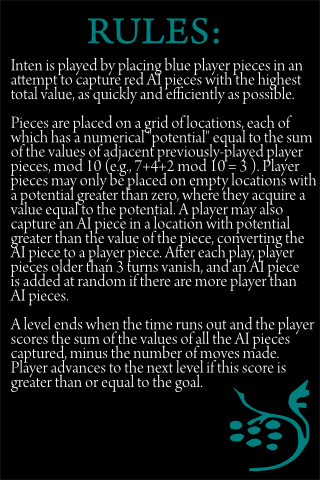
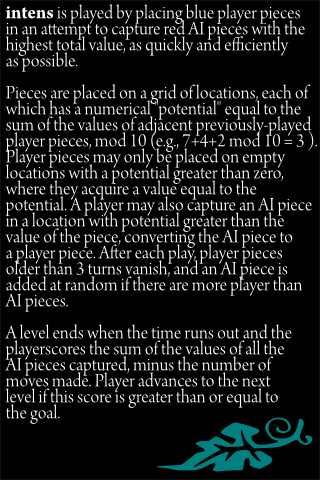
- added sound effects - minor artwork changes

diff --git a/numms_a/Board.mm b/numms_a/Board.mm
@@ -20,7 +20,9 @@
 {
 
 	if( (self=[super  init])) {
-        //[[SimpleAudioEngine sharedEngine] preloadEffect:@"wine.aif"];
+        
+        effects = [[SoundEffectManager alloc] initEffects];
+        
         // cache piece textures
         [[CCTextureCache sharedTextureCache] addImage:@"p_6a.png"];
         [[CCTextureCache sharedTextureCache] addImage:@"p_6b.png"];
@@ -32,6 +34,7 @@
 // ----------------------------------------------------
 -(void) dealloc {
     [super dealloc];
+    [effects release];
     [[CCTextureCache sharedTextureCache] removeUnusedTextures];
 } // end dealloc
 
@@ -87,6 +90,7 @@
 
 // ----------------------------------------------------
 -(void) displayBoard{
+    
     for (int i = 0; i < GWIDTH; i++) {
         for (int j = 0; j < GHEIGHT-1; j++) {
             
@@ -95,6 +99,8 @@
                 // ----------------------------------------------------
                 case CAPTURED:
                      [(Piece*)[self getChildByTag:i*10+j] capture];
+                          [effects playCapture];
+                    
                     break;
                 // born
                 // ----------------------------------------------------
@@ -119,37 +125,6 @@
             
             dMatrix.drawP(i, j);
             
-            
-         /*   
-            
-            if (!(dMatrix.drawn(i, j) =) {
-                dMatrix.drawP(i, j);
-               
-                // there are 3 possible situations when something
-                // needs to be draw
-                
-                // capturing
-                if ([self getChildByTag:i*10+j] != NULL &&         // there is currently a piece drawn here
-                    dMatrix.type(i, j) != EMPTY                    // AND there is a piece here in the matrix
-                     ) {
-
-                   // [self addChild: [self pieceFromData:CGPointMake(i, j)]];
-                    [(Piece*)[self getChildByTag:i*10+j] capture];  // capture the old piece
-                    
-                // dying
-                } else if([self getChildByTag:i*10+j] != NULL &&    // there is currently a piece drawn here
-                          dMatrix.type(i, j) == EMPTY               // AND there is NOT a piece here in the matrix
-                          ) {
-                    [(Piece*)[self getChildByTag:i*10+j] death];    // old piece dies
-                    
-                // playing
-                } else if (dMatrix.type(i, j) != EMPTY  &&          // this cell is not empty in matrix
-                           [self getChildByTag:i*10+j] == NULL      // AND nothing is draw here
-                           ) {
-                    [self addChild: [self pieceFromData:CGPointMake(i, j)]];  // simply place piece
-                }   
-            
-            } // end if*/
         } // end for
     } // end for   
 } // end drawBoard

diff --git a/numms_a/SoundEffectManager.m b/numms_a/SoundEffectManager.m
@@ -1,0 +1,52 @@
+// Copyright (c) 2011 Ethan Levien
+// SoundEffectManager.mm
+
+#import "SoundEffectManager.h"
+
+
+@implementation SoundEffectManager
+
+#pragma mark - 
+#pragma mark setup
+
+// setup
+// ====================================================
+
++(id) soundEffectManager{    
+    return [[[self alloc] initEffects] autorelease];
+} // end soundEffectManager
+
+// ---------------------------------------------------
+-(id) initEffects{
+    if( (self=[super init]) ) {
+        
+        
+        NSString *toneFilename = [NSString stringWithString:@"wine"];
+        
+        NSURL *toneURLRef = [[NSBundle mainBundle] URLForResource:toneFilename
+                                                    withExtension:@"aif"];
+        
+        
+        AudioServicesCreateSystemSoundID(
+                                         (CFURLRef) toneURLRef,
+                                         &capture_tone
+                                         );
+
+    }
+    return self;
+    
+} // end init
+
+#pragma mark - 
+#pragma mark sounds
+
+// sounds
+// ====================================================
+
+// ---------------------------------------------------
+-(void) playCapture{
+    AudioServicesPlaySystemSound(capture_tone);
+} // playCapture
+
+
+@end

diff --git a/numms_a/SoundEffectManager.h b/numms_a/SoundEffectManager.h
@@ -1,0 +1,30 @@
+// Copyright (c) 2011 Ethan Levien
+// SoundEffectManager.h
+
+#import <Foundation/Foundation.h>
+#import <AudioToolbox/AudioToolbox.h>
+
+/*--------------------------------------------------------------
+ Programmer: ethan levien
+ 
+ SUMMARY:
+ 
+ REVISIONS: 
+ 06/08/2011 (eal) - wrote and implemented class w/ only capture effect
+ ----------------------------------------------------------------*/
+
+
+@interface SoundEffectManager : NSObject {
+        SystemSoundID capture_tone;
+}
+
+// setup
+// ====================================================
++(id) soundEffectManager;
+-(id) initEffects;
+
+// sounds
+// ====================================================
+-(void) playCapture;
+
+@end

diff --git a/numms_a/Board.h b/numms_a/Board.h
@@ -3,7 +3,7 @@
 // Board.h
 
 #import <Foundation/Foundation.h>
-#import "SimpleAudioEngine.h"
+#import "SoundEffectManager.h"
 #import "cocos2d.h"
 #import "DataMatrix.h"
 #import "Piece.h"
@@ -20,12 +20,14 @@
  06/07/2011 (eal) - code is clean( organized and commented)
  06/08/2011 (eal) - altered display board method to enable specific animations
                     to be called when piece is captured, born, or dies
+                  - added sound
  ----------------------------------------------------------------*/
 
 
 @interface Board : CCNode {
 	
     DataMatrix dMatrix;
+    SoundEffectManager *effects;
     
 }
 

diff --git a/numms_a/Piece.mm b/numms_a/Piece.mm
@@ -16,23 +16,14 @@
 // ---------------------------------------------------
 -(id) init
 {
-	
-	// always call "super" init
-	// Apple recommends to re-assign "self" with the "super" return value
 	if( (self=[super  init])) {
 
         self.anchorPoint = CGPointMake(0,0);
-		// create and initialize a Label
-        
-		
-		
-   
 		
         label = [CCLabelTTF labelWithString:@"1" fontName:PIECE_FONT fontSize:50];
         label.anchorPoint = CGPointMake(0,0);
         label.position = CGPointMake(25,8);
         label.opacity = 225;
-
         	
 	}
 	return self;

diff --git a/numms_a/GameScene.mm b/numms_a/GameScene.mm
@@ -31,6 +31,12 @@
 	
 
 	if( (self=[super  init])) {
+        
+        // add background sprite
+        CCSprite* backsprite = [CCSprite spriteWithFile:@"bg_grid4.png"];
+		[self addChild:backsprite];
+		backsprite.anchorPoint = ccp(0,0);
+		backsprite.position = ccp(0,0);
 
                 
         [self buttonSetup];
@@ -45,8 +51,6 @@
         
         bonus = 0;
         [self playLevel];
-
-        
 
 
 	}

diff --git a/numms_a/Consts.h b/numms_a/Consts.h
@@ -28,9 +28,9 @@
 
 // gameplay
 #define LIFESPAN               3
-#define MAX_LVL                30
-#define LVL_TIME               600
-#define LVL_SPEED              0.1f
+#define MAX_LVL                300
+#define LVL_TIME               60
+#define LVL_SPEED              1.0f
 
 // rule sets
 #define RULE_SET_1a            1

diff --git a/numms_a/DataMatrix.h b/numms_a/DataMatrix.h
@@ -89,7 +89,7 @@ private:
     // dependent on ruleset - see rules.rtf
     
     void recursive_AiPlay(short n, short &x,short &y, short &val);
-    // not yet implemented
+    // implemented, but not in use
     
     short getSum( short x, short y);
     // PRE: (x,y) is valid position on board

diff --git a/numms_a/DataMatrix.cpp b/numms_a/DataMatrix.cpp
@@ -25,6 +25,7 @@ DataMatrix::DataMatrix(){
 bool DataMatrix::placePiece_human(short x,short y){
     short sum = checkCell_Human(x, y);
     if (sum != 0) {
+        
         bool capture = false;
         if (matrix[x][y].type == AI){
             s = s + sum;

diff --git a/numms_a/Piece.h b/numms_a/Piece.h
@@ -44,7 +44,7 @@
 // ====================================================
 -(void) birth;
 -(void) death;
--(void) capture;
+-(void) capture; // changes to a human piece
 
 // misc
 // ====================================================
